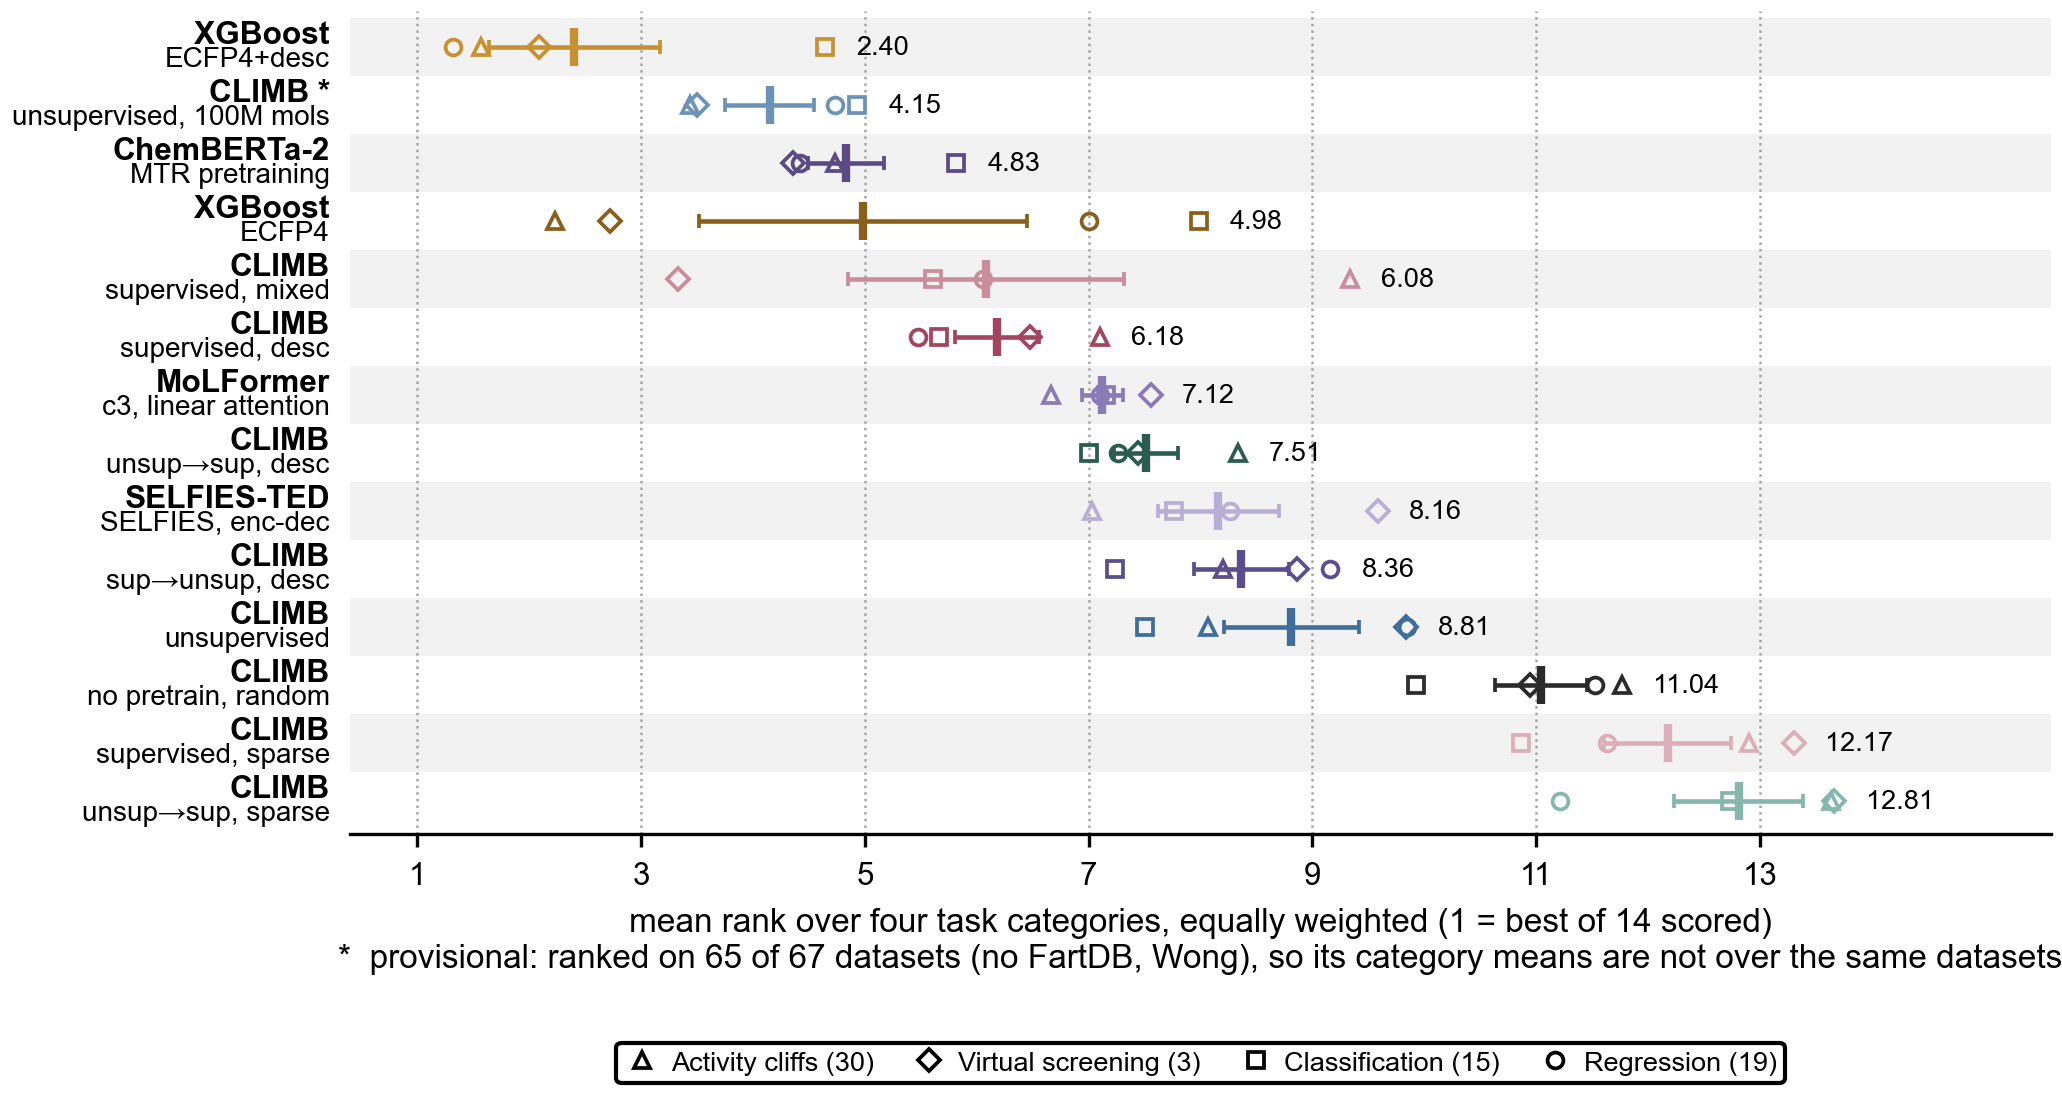
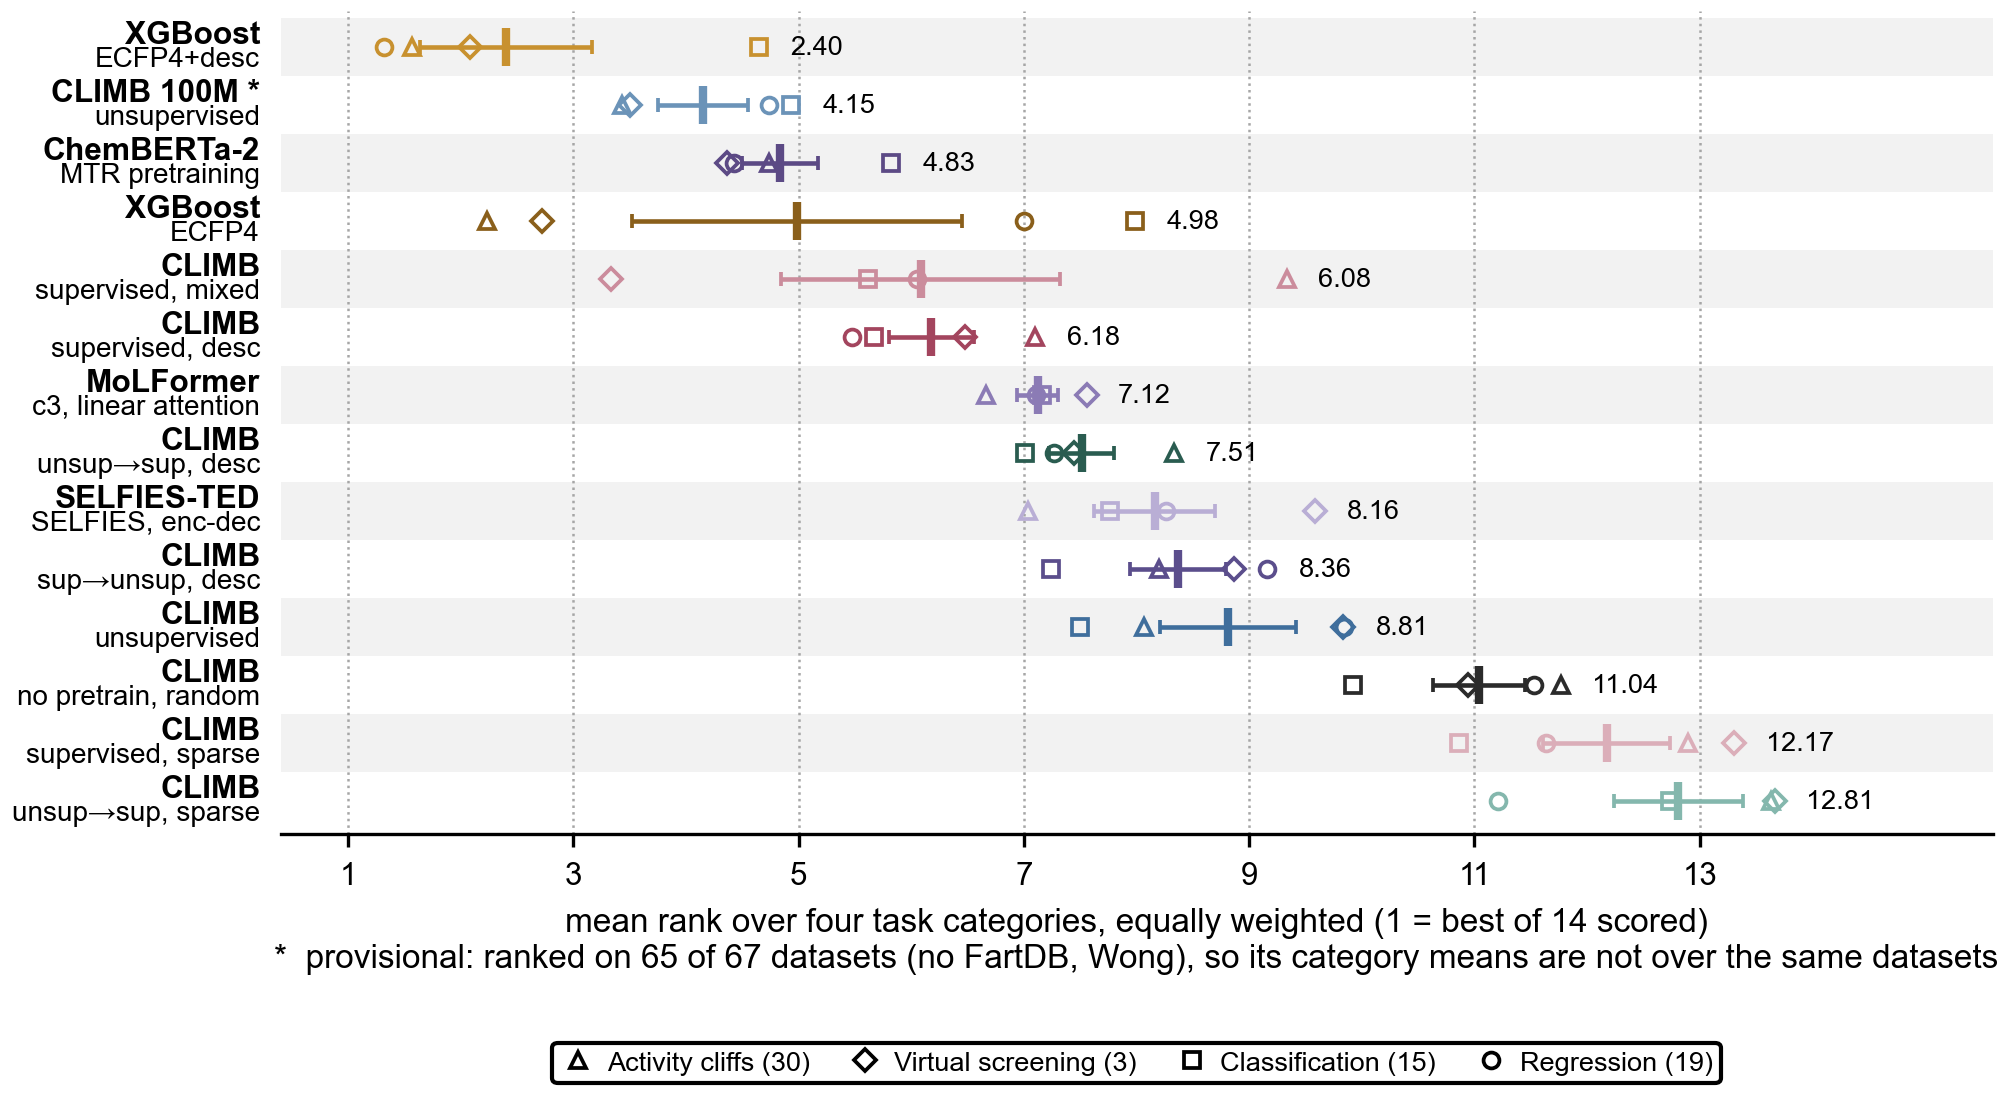
fig_A: the large-corpus runs read "CLIMB 100M" bold, objective underneath
arms.system() now takes a per-arm `system` override instead of always using the
family default. unsup_100M reads "CLIMB 100M" / "unsupervised" rather than
"CLIMB" / "unsupervised, 100M mols": the scale is what distinguishes it from
every other CLIMB row, so it belongs on the line the eye reads first, and the
family default buried it in the subtitle.

sup_dense_96M gets the same treatment ("CLIMB 96M FP" / "supervised, desc"),
with FP kept in its bold line on purpose -- it is 96M forward passes and only 12M
unique molecules, and a bare "CLIMB 96M" beside "CLIMB 100M" would read as the
same kind of number when it is not.

skip_dense_100M_c124's entry is written out in a comment ready for the run to
land, so the pair arrives with one shape: "CLIMB 100M" bold on both, objective
underneath, which is what makes them read as a single comparison.

Width re-measured: the shorter labels took the plate to 6.64in, multiplier
retuned to land at 6.68 against a 6.69in text block.

diff --git a/figures/arms.py b/figures/arms.py
@@ -191,15 +191,25 @@ ARMS = {
     # repetition-saturated arm as "the largest supervised model" would say the opposite of what
     # fig_B now says. Its real counterpart is skip_dense_100M_c124, in flight.
     "unsup_100M": dict(
-        label="unsupervised, 100M mols", short="unsup 100M", family="unsup",
+        label="unsupervised", short="unsup 100M", family="unsup", system="CLIMB 100M",
         color=SHADES["unsup"][1], probe="frozen", pretrain_replicates=False,
         in_ablation=False, unique_molecules=100_000_000,
         src=dict(mace="unsup_100M", mol=["unsup_100M"])),
     "sup_dense_96M": dict(
-        label="supervised desc, 96M FP", short="sup 96M", family="sup",
+        label="supervised, desc", short="sup 96M", family="sup", system="CLIMB 96M FP",
         color=SHADES["sup"][2], probe="frozen", pretrain_replicates=False,
         in_ablation=False, in_ranking=False, unique_molecules=12_000_000,
         src=dict(mace="skip_dense_96M", mol=["skip_dense_96M"])),
+
+    # skip_dense_100M_c124 lands here when the run finishes, as
+    #     "sup_dense_100M": dict(label="supervised, desc", short="sup 100M", family="sup",
+    #                            system="CLIMB 100M", color=SHADES["sup"][5], probe="frozen",
+    #                            pretrain_replicates=False, in_ablation=False,
+    #                            unique_molecules=100_000_000,
+    #                            src=dict(mace="skip_dense_100M_c124",
+    #                                     mol=["skip_dense_100M_c124"]))
+    # -- same two-line shape as unsup_100M so the pair reads as one comparison: "CLIMB 100M" bold
+    # on both, objective underneath. Written out here rather than left to be reinvented.
 
     # ------------------------------------------------------------ external literature CLMs ----
     # Three published chemical language models, added 2026-08-26 from the fig_A wave. All three
@@ -635,8 +645,16 @@ SYSTEM = {"anchor": "XGBoost", "chemeleon": "CheMeleon",
 
 
 def system(arm_key: str) -> str:
-    """Which model system the arm belongs to -- the first line of a two-line axis label."""
-    return SYSTEM.get(ARMS[arm_key]["family"], "CLIMB") if arm_key in ARMS else ""
+    """Which model system the arm belongs to -- the first line of a two-line axis label.
+
+    A per-arm `system` key overrides the family default. That exists for the large-corpus runs,
+    where the informative split is "CLIMB 100M" on the bold line and the objective underneath --
+    the scale is what distinguishes them from every other CLIMB row, so it belongs on the line the
+    eye reads first, and the family default of plain "CLIMB" buries it in the subtitle.
+    """
+    if arm_key not in ARMS:
+        return ""
+    return ARMS[arm_key].get("system") or SYSTEM.get(ARMS[arm_key]["family"], "CLIMB")
 
 
 def label(arm_key: str) -> str:

diff --git a/figures/fig_A.py b/figures/fig_A.py
@@ -208,7 +208,7 @@ def main():
     # fractions below change, AND when the row labels change: the multiplier is the ratio of the
     # canvas to the crop, and the crop is set by the widest label in the left column, so shortening
     # the arm list moved it. First version, with slack on both sides, rendered 5.58in.
-    fig = plt.figure(figsize=(STYLE["col2"] * 1.115, 3.66))
+    fig = plt.figure(figsize=(STYLE["col2"] * 1.123, 3.66))
     # Row pitch is set by the axes HEIGHT, and it has two lines of text to hold rather than one
     # (Leif 2026-08-25: "XGBoost and its subtitle aren't squashed that much"). 2.83in over 13 rows
     # is 0.218in per row; at the previous 2.50in the bold line and its subtitle nearly touched the
